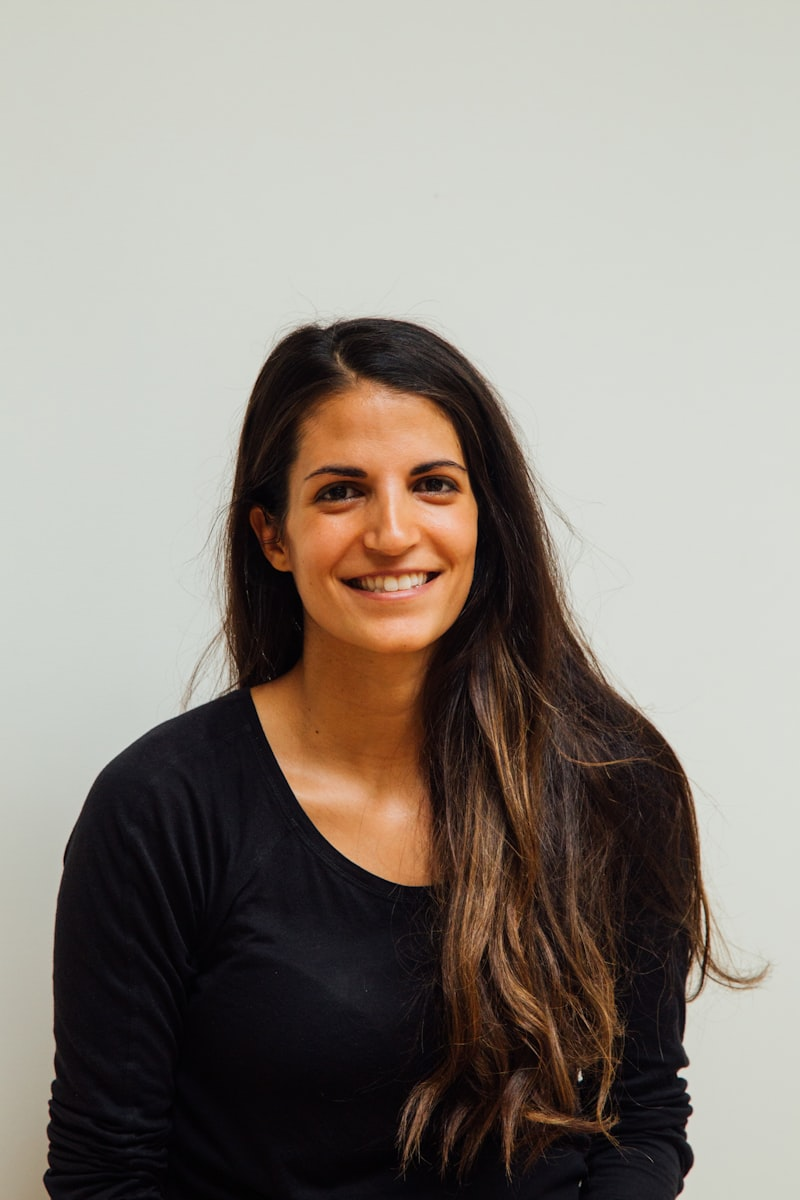
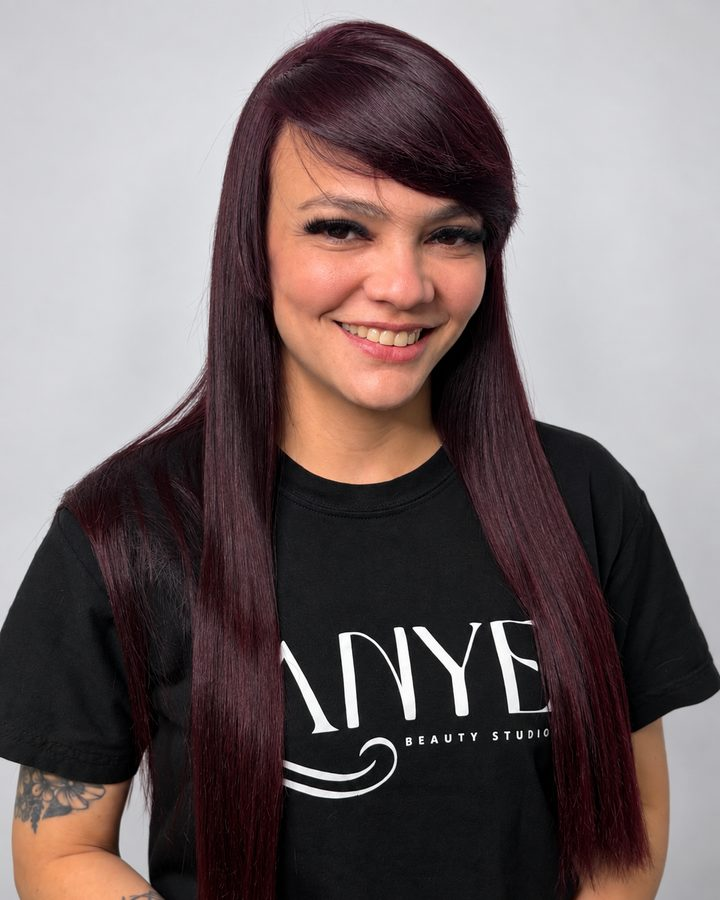
feat: foto real de Anye + saca atribución personal de "trabajos realizados"
- prof-martina (Anye) ahora usa su foto real del equipo (Drive 18/9/2026,
  confirmada por el texto "ANYE — Beauty Studio" en su remera).
- Yosy decidió que ninguna profesional tiene portfolio propio: el copy de
  PerfilProfesional.tsx ya no dice "Trabajo real de {nombre}" ni "Galería
  de Trabajos Realizados" — ahora es genérico por técnica/categoría
  ("Estilos y Técnicas que Trabajamos" / "Ejemplo del estudio").
- 5 fotos reales más del equipo quedan guardadas sin asignar en
  src/assets/images/profesionales/pendientes/ (nombradas por rasgos
  visuales) — no hay forma de saber cuál es Mili/Sharon/Cris/Ariannys/Yosy
  sin preguntarle a ella; ver PENDIENTE_ONBOARDING.md.

diff --git a/src/pages/PerfilProfesional.tsx b/src/pages/PerfilProfesional.tsx
@@ -146,12 +146,12 @@ export const PerfilProfesional: React.FC = () => {
           <div className="flex flex-col sm:flex-row sm:items-center justify-between gap-2">
             <div>
               <h2 className="font-display text-2xl font-bold text-rf-black">
-                {esCamila ? 'Equipamiento & Gabinete' : 'Galería de Trabajos Realizados'}
+                {esCamila ? 'Equipamiento & Gabinete' : 'Estilos y Técnicas que Trabajamos'}
               </h2>
               <p className="text-xs text-rf-charcoal">
                 {esCamila
                   ? 'Gabinete equipado con máquina Soprano Ice de última generación.'
-                  : `Muestra de técnicas y resultados reales de ${prof.nombre}.`}
+                  : `Ejemplos reales de ${prof.especialidades.join(' y ')} que hacemos en el estudio.`}
               </p>
             </div>
 
@@ -171,12 +171,12 @@ export const PerfilProfesional: React.FC = () => {
               >
                 <img
                   src={imgUrl}
-                  alt={`Trabajo de ${prof.nombre} ${idx + 1}`}
+                  alt={esCamila ? `Equipamiento ${idx + 1}` : `Ejemplo de trabajo ${idx + 1} — ${prof.especialidades[0] ?? 'estudio'}`}
                   className="w-full h-full object-cover filter brightness-[1.02] contrast-[1.03] saturate-[1.05] group-hover:scale-105 transition-transform duration-300"
                 />
                 <div className="absolute inset-0 bg-black/20 opacity-0 group-hover:opacity-100 transition-opacity flex items-end justify-between p-3">
                   <span className="text-[10px] text-white font-medium bg-black/60 px-2 py-0.5 rounded-full backdrop-blur-xs">
-                    {esCamila ? 'Equipamiento Soprano Ice' : `${prof.nombre} — Trabajo real`}
+                    {esCamila ? 'Equipamiento Soprano Ice' : 'Ejemplo del estudio'}
                   </span>
                   <Expand className="w-4 h-4 text-white shrink-0" />
                 </div>
@@ -192,7 +192,7 @@ export const PerfilProfesional: React.FC = () => {
           indiceActivo={imagenActiva}
           onCerrar={() => setImagenActiva(null)}
           onCambiarIndice={setImagenActiva}
-          alt={`Trabajo de ${prof.nombre}`}
+          alt={esCamila ? 'Equipamiento' : `Ejemplo de trabajo — ${prof.especialidades[0] ?? 'estudio'}`}
         />
       )}
     </div>

diff --git a/PENDIENTE_ONBOARDING.md b/PENDIENTE_ONBOARDING.md
@@ -29,9 +29,29 @@ cargar y dónde impacta.
 
 - **Nombre y apellido real completo** — hoy se muestra el apodo en todos
   lados; interno, no bloquea nada.
-- **Foto de perfil, video de presentación, fotos de trabajos realizados**
-  — placeholder deliberado por ahora (se salteó a pedido explícito para
-  agilizar el arranque del sistema).
+- **Foto de perfil** — Yosy mandó por Drive 6 fotos reales del equipo
+  (18/9/2026). Solo pudimos confirmar 1 con certeza por texto en la propia
+  foto (remera "ANYE — BEAUTY STUDIO" → ya cargada como `prof-martina`).
+  Las otras 5 quedaron guardadas sin usar en
+  `src/assets/images/profesionales/pendientes/` (nombradas por rasgos
+  visuales) — **hay que preguntarle a Yosy cuál es cuál** antes de
+  asignarlas a Mili/Sharon/Cris/Ariannys/ella misma, para no ponerle la
+  cara de una persona equivocada a otra. `prof-yosy.jpg` hoy es solo el
+  logo del estudio, no una foto de ella — la más urgente de resolver.
+- **Trabajos realizados por profesional**: decisión de Yosy (18/9/2026) —
+  ninguna profesional tiene portfolio propio. Ya se sacó el copy que decía
+  "Trabajo real de {nombre}" / "Galería de Trabajos Realizados" de
+  `PerfilProfesional.tsx` — ahora dice "Estilos y Técnicas que Trabajamos"
+  / "Ejemplo del estudio", genérico por categoría (especialidad), no por
+  persona. La segmentación de fotos por profesional en
+  `trabajosFotos.ts` se mantiene (es solo "qué técnicas hace ella", no
+  atribución de autoría).
+- **Video de presentación** — Yosy mandó 3 videos sin nombre (.mov, ~80MB
+  c/u) el 18/9/2026. Pesados para meter directo al repo/build de Vercel y
+  sin forma de identificar el contenido sin verlos enteros. Pendiente:
+  preguntarle a Yosy qué muestra cada uno, y subirlos a un host de video
+  (YouTube sin listar, Supabase Storage o similar) en vez de commitear el
+  archivo — así no infla el bundle del sitio.
 - **Días y horarios de trabajo reales** — los cargados en el seed de
   Supabase (`profesionales.horario_disponible`) son un supuesto inicial,
   no confirmados una por una con cada profesional. Esto alimenta
